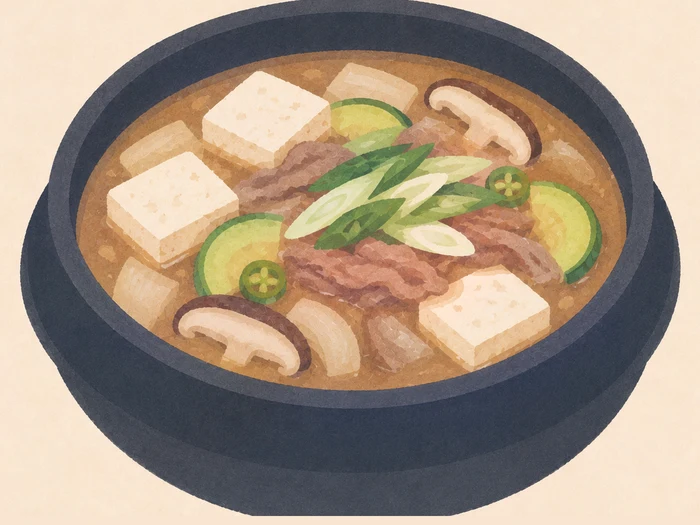
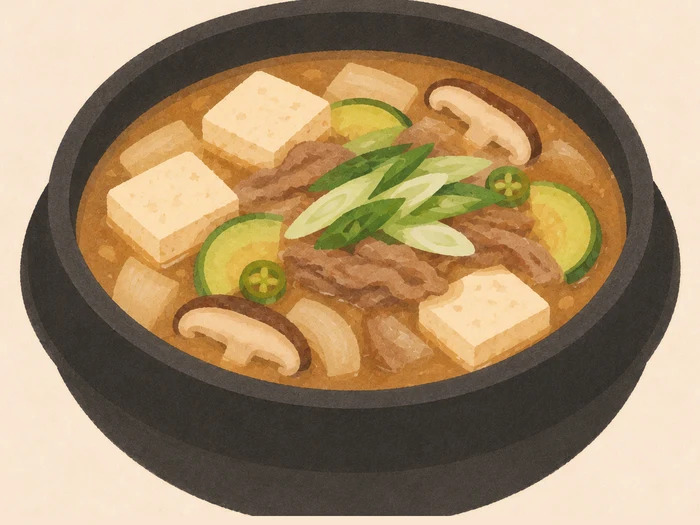
平場校正只改背景，不再整張位移；四張菜色圖重新取景
大醬湯的黑陶鍋在上線後變成藍灰（#39332D → #393F4B）。原因是 flat_field()
把「背景估計 − 目標色」整張每個像素都扣一次 —— 那張原圖底色 #FADDB7，
藍通道差 26（所有原稿裡最極端），等於整張加了 26 的藍。暖色系的菜吃得下這個
偏移，接近中性的深色器皿吃不下，直接變色。

改成跟 fix_bg() 同一套：從四邊淹水做出背景遮罩，校正只作用在「連得到畫面
邊緣」的像素上。器皿和食物碰不到邊，所以完全不受影響。實測大醬湯鍋色回到
原圖的 #39332D，背景照樣壓到 #F9E6D1±1。

取景（沿用上一個 commit 的「照高度撐」，這次再往上調）：
- 阿馬特里恰納：食物原本只佔畫面高 54%、底部空 17%，是 18 張裡最鬆的
- 香蕉瑪芬、雞腿炒麵：加大之後上緣會被切，改成對齊主體上緣留 2% 天花板，
  不要用垂直置中 —— 置中會平均切掉上下，而上面才是要留的

⚠ 學到的兩件事，已寫進註解：
- 驗收底色不能拿整圈邊緣量。放大到盤子出血之後，邊緣有六成是盤子，量出來
  「差 14」其實是盤子的顏色；要先濾掉非背景的像素再取中位數
- --fix-bg 需要邊緣有足夠背景。重裁放大過的圖只剩四個角是背景，估不準，
  補壓反而讓八點落差從 19 變 24

ASSETS 58 → 59

diff --git a/index.html b/index.html
@@ -774,8 +774,8 @@ ol.steps li::before {
 </div>
 
 <!-- 改完 recipes.js 就把 v 往上加一號，不然瀏覽器會一直吃舊的快取 -->
-<script src="strings.js?v=9"></script>
-<script src="recipes.js?v=88"></script>
+<script src="strings.js?v=11"></script>
+<script src="recipes.js?v=90"></script>
 <script>
 /* ══════════════════════════════════════════════
    慢寶 · 骨架
@@ -783,7 +783,7 @@ ol.steps li::before {
    ══════════════════════════════════════════════ */
 
 /* 素材版本。換過圖就 bump 一次，否則瀏覽器會一直用舊的快取 */
-const ASSETS = '58';
+const ASSETS = '59';
 const asset = p => p + '?v=' + ASSETS;
 
 const $ = (s, el = document) => el.querySelector(s);

diff --git a/assets/crop_dish.py b/assets/crop_dish.py
@@ -38,7 +38,13 @@ d = lambda c, t: sum(abs(c[i] - t[i]) for i in range(3))
 
 def flat_field(im):
     """把背景壓成 TGT。整體位移沒用 —— 原圖的背景是有漸層的暈影，
-    要估成一張低頻圖再逐像素扣掉。回傳 (校正後的圖, 原本的底色)。"""
+    要估成一張低頻圖再逐像素扣掉。回傳 (校正後的圖, 原本的底色, 低頻估計)。
+
+    ⚠ 校正只作用在「從畫面邊緣連得到」的背景像素上，不是整張。
+    2026-08-18 修：原本整張每個像素都扣同一個差值，背景是對了，但菜也一起偏。
+    大醬湯的原圖底色 #FADDB7 藍通道差 26，等於整張加了 26 的藍 ——
+    黑陶뚝배기是接近中性的深色，加藍就直接變成藍灰（#39332D → #393F4B，
+    使用者：「也太藍了吧」）。暖色系的菜看不出來，中性深色一定看得出來。"""
     W, H = im.size
     px = im.load()
     edge = [(4, 4), (W // 2, 4), (W - 5, 4), (4, H // 2),
@@ -70,12 +76,38 @@ def flat_field(im):
     est_im = est_im.resize((W, H), Image.BICUBIC).filter(ImageFilter.GaussianBlur(28))
     est = est_im.load()
 
+    # 背景遮罩：從四邊淹水，只有連得到畫面邊緣的像素才算背景 —— 器皿和食物碰不到邊
+    mask = Image.new('L', (W, H), 0)
+    mp = mask.load()
+    seen = bytearray(W * H)
+    q = deque()
+    for x in range(W):
+        for y in (0, H - 1):
+            if not seen[y * W + x]:
+                seen[y * W + x] = 1; q.append((x, y))
+    for y in range(H):
+        for x in (0, W - 1):
+            if not seen[y * W + x]:
+                seen[y * W + x] = 1; q.append((x, y))
+    while q:
+        x, y = q.popleft()
+        if d(px[x, y], est[x, y]) >= 22:
+            continue
+        mp[x, y] = 255
+        for dx, dy in ((1, 0), (-1, 0), (0, 1), (0, -1)):
+            nx, ny = x + dx, y + dy
+            if 0 <= nx < W and 0 <= ny < H and not seen[ny * W + nx]:
+                seen[ny * W + nx] = 1; q.append((nx, ny))
+    mask = mask.filter(ImageFilter.GaussianBlur(3))
+    mk = mask.load()
+
     out = Image.new('RGB', (W, H))
     op = out.load()
     for y in range(H):
         for x in range(W):
-            c, e = px[x, y], est[x, y]
-            op[x, y] = tuple(max(0, min(255, c[i] - (e[i] - TGT[i]))) for i in range(3))
+            c, e, m = px[x, y], est[x, y], mk[x, y] / 255
+            op[x, y] = tuple(max(0, min(255, round(c[i] - (e[i] - TGT[i]) * m)))
+                             for i in range(3))
     # ⚠ 第三個回傳值是「背景的低頻估計」，不是校正後的圖 —— fix_bg() 要的是它。
     #    2026-08-18 修：原本 fix_bg 寫 `est_im, _ = flat_field(im)`，拿到的是校正後的
     #    圖，於是它拿原圖去跟「已經修好的版本」比，把差很多的像素判成「不是背景」——
